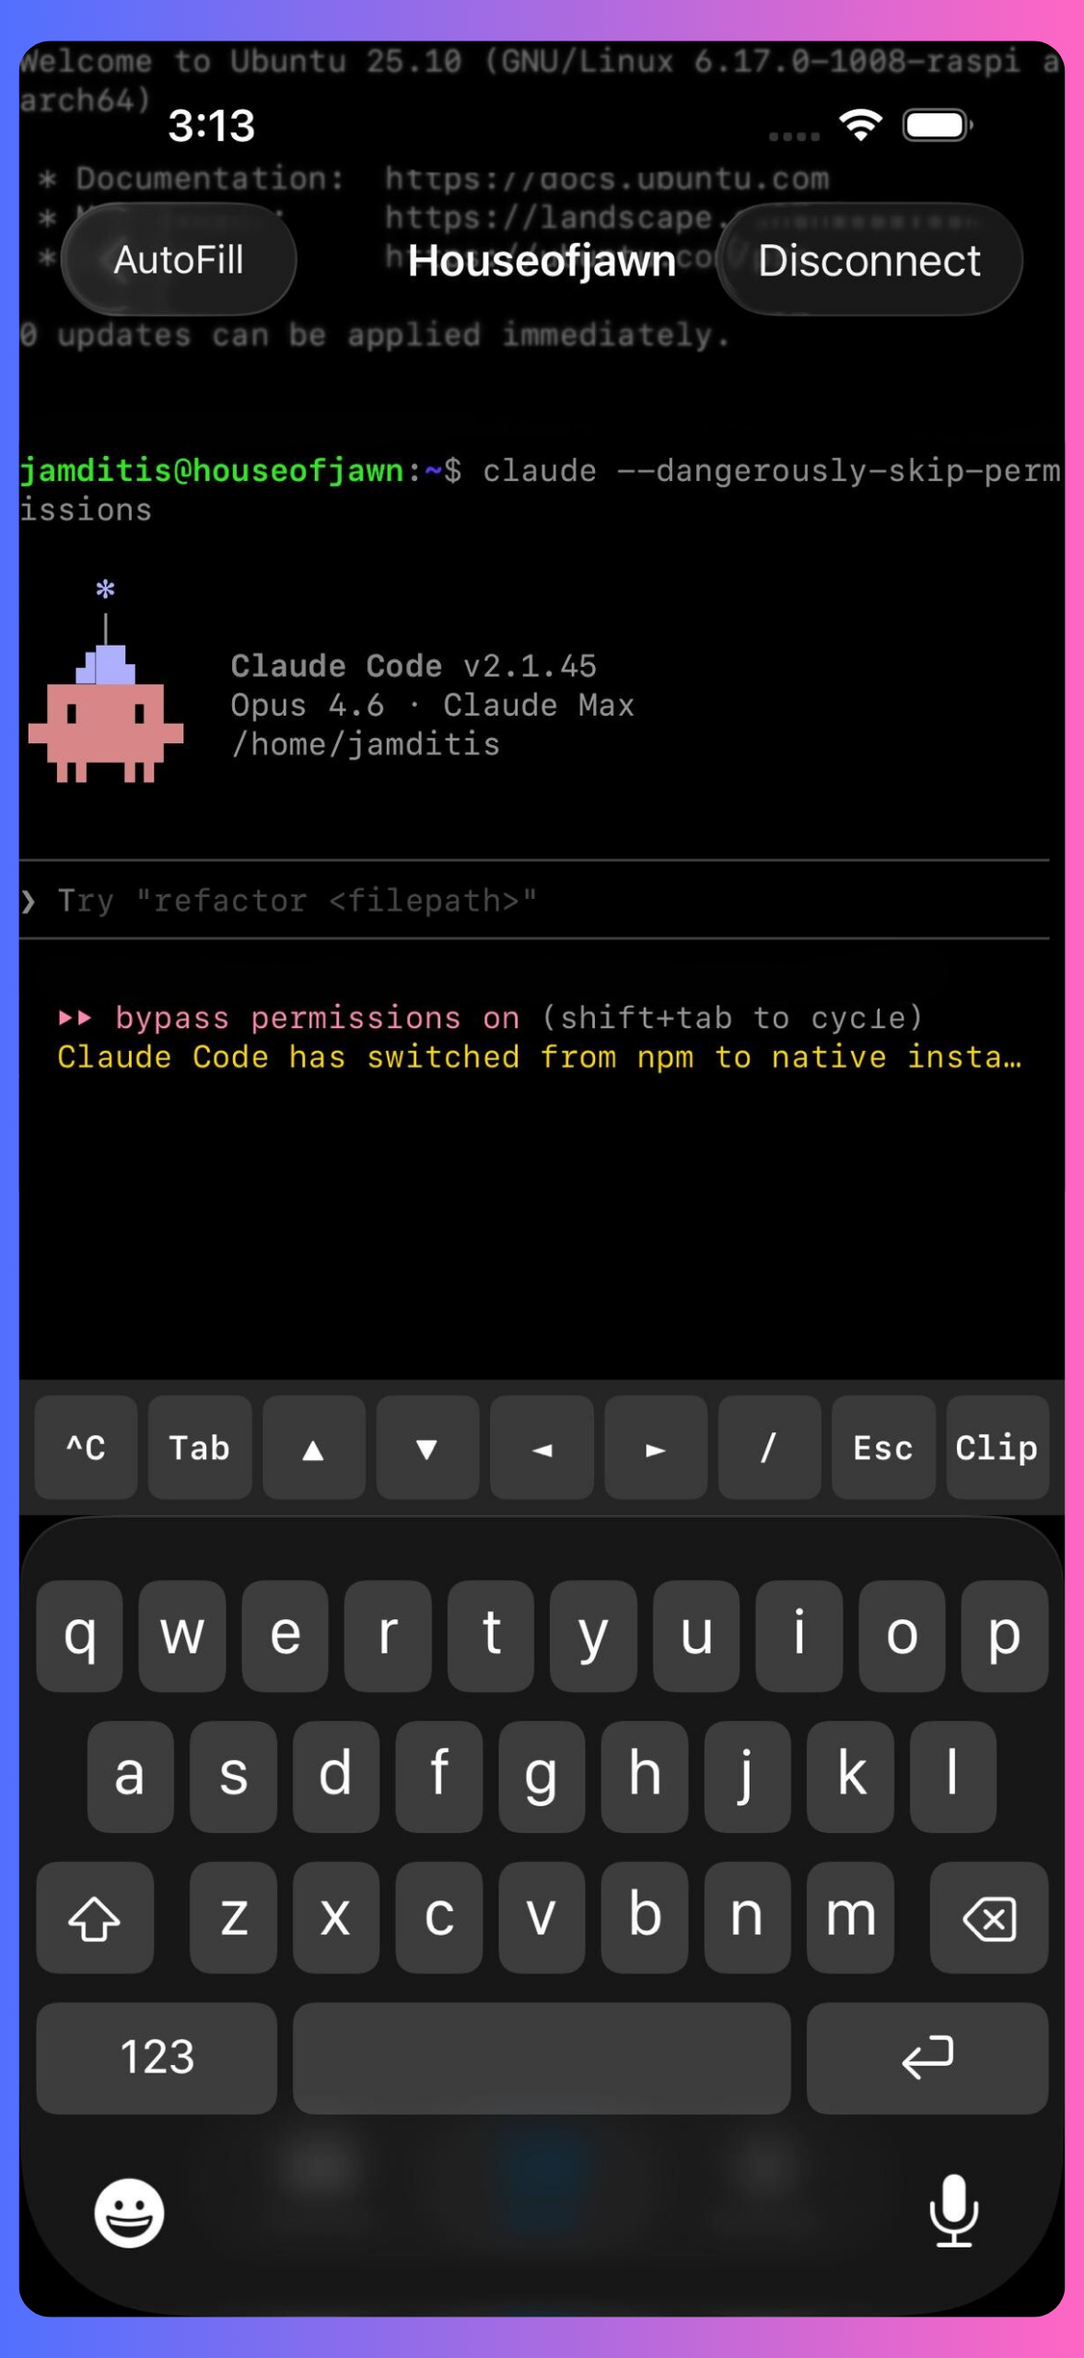
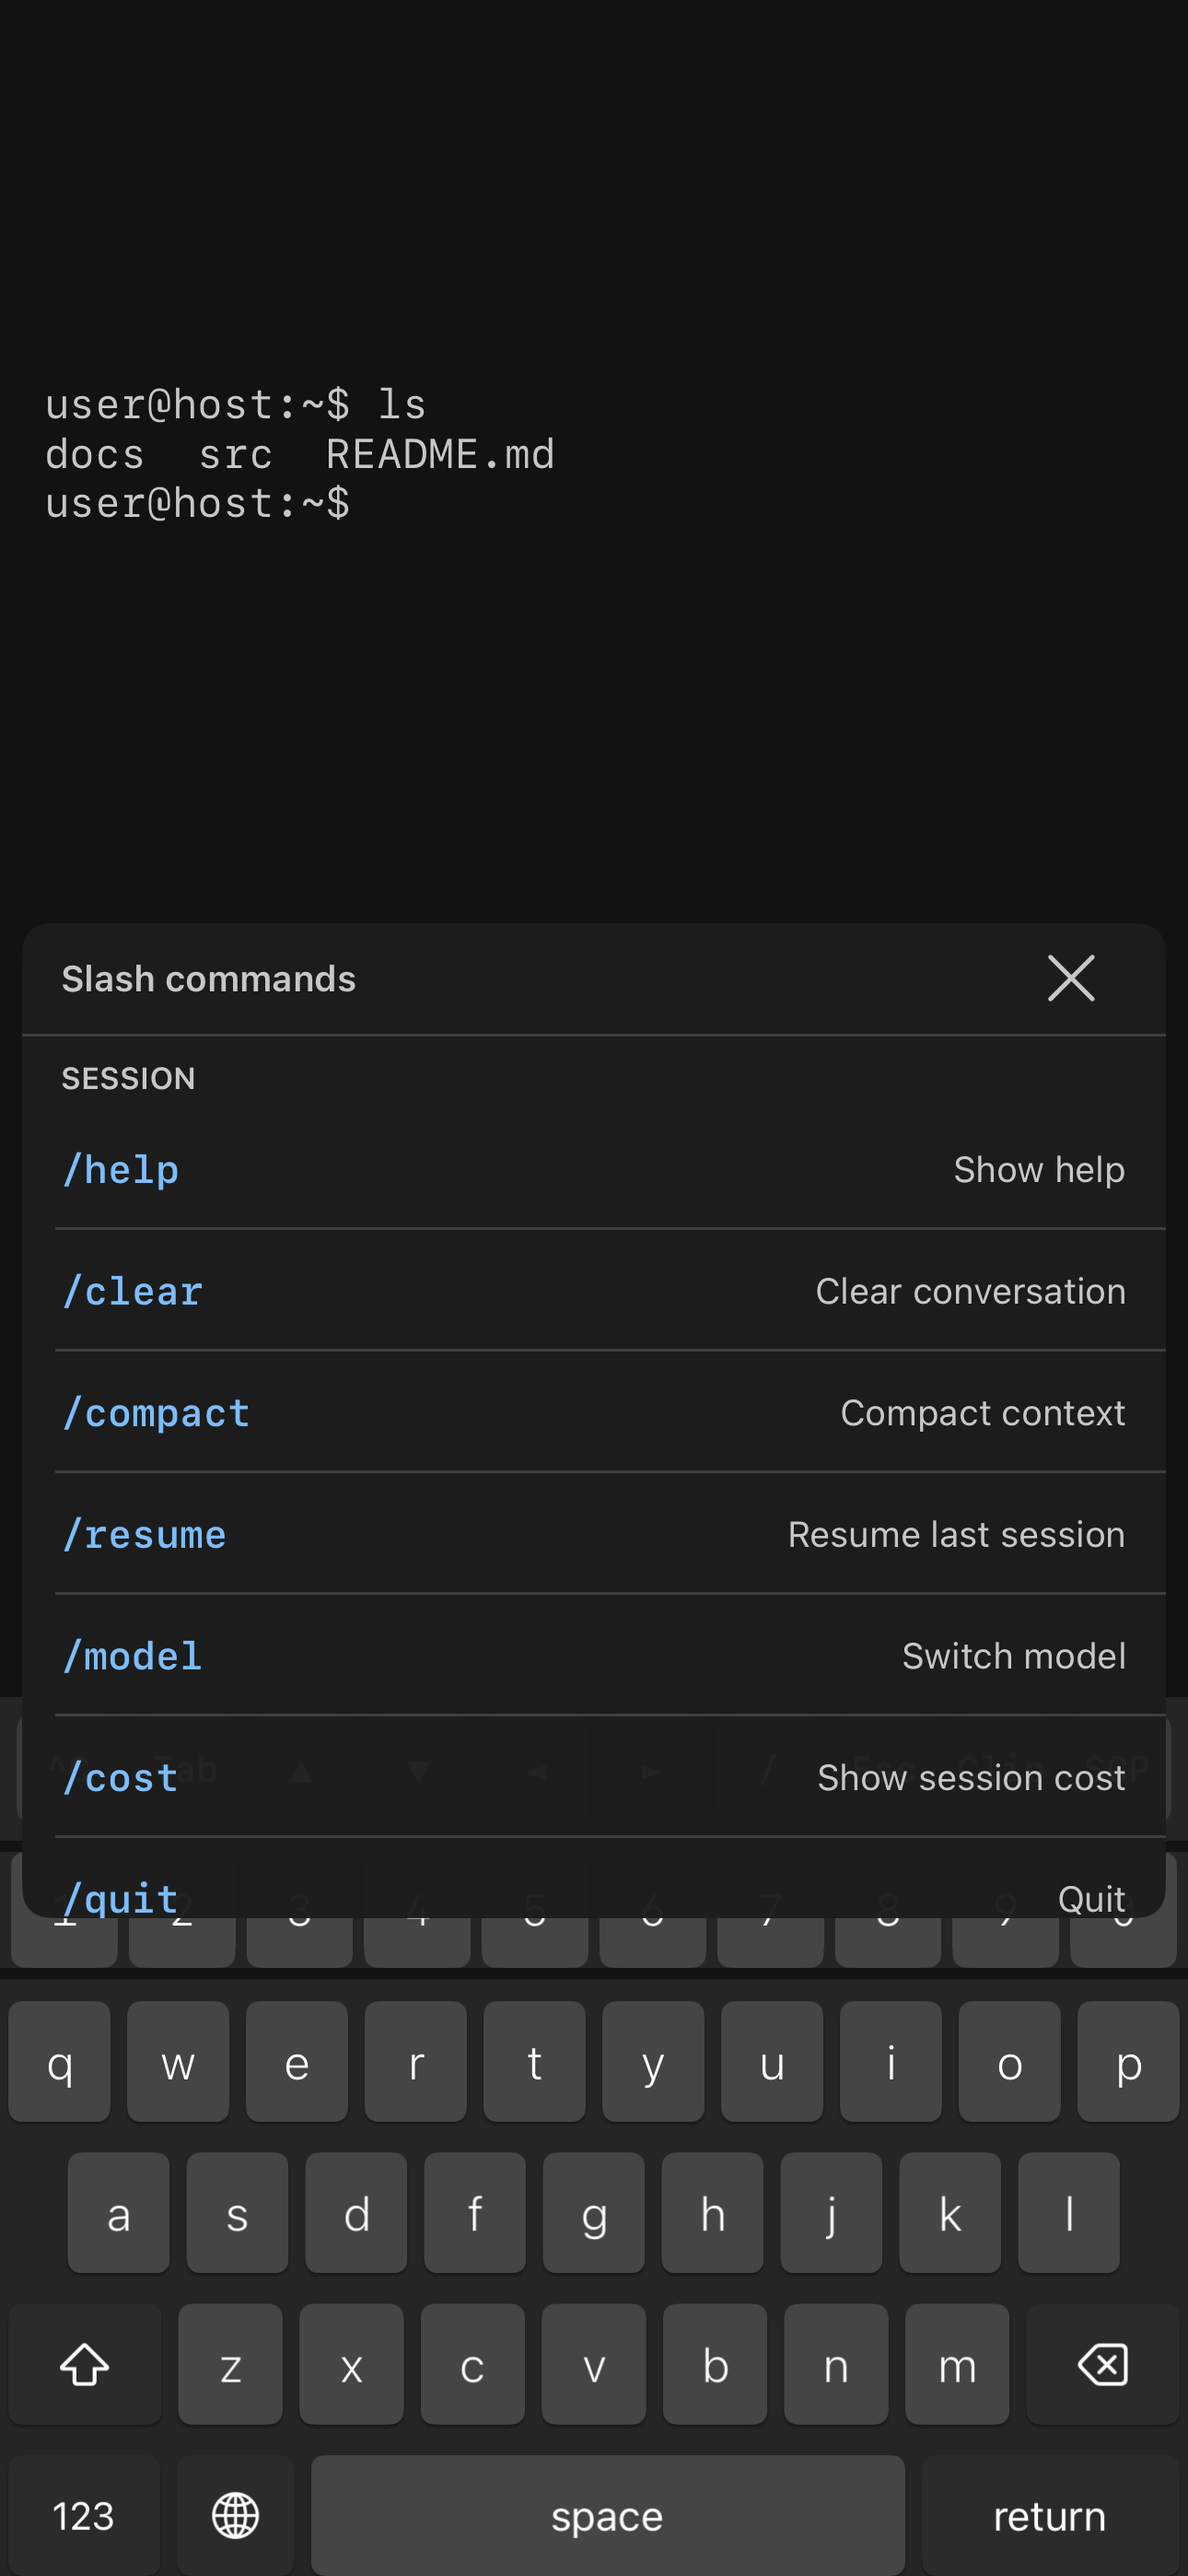
Replace the branded slash-commands screenshot and fix Release signing. (#95)
The store listing still shipped ios-claude-code.png. Render the real
slash panel over a generic prompt at 1290x2796. Archive uses manual
signing so it matches the App Store profiles.

diff --git a/ios/Tests/SlashScreenshotRenderTests.swift b/ios/Tests/SlashScreenshotRenderTests.swift
@@ -1,0 +1,93 @@
+import UIKit
+import XCTest
+@testable import KeyJawnKit
+
+/// Renders the real extra row, number row, QWERTY, and slash panel onto a
+/// 1290×2796 image with a generic prompt behind it. No third-party tool chrome.
+///
+/// Set `SLASH_SCREENSHOT_PATH` to write the PNG. The test always renders and
+/// checks the pixel size so a missing write path still exercises the layout.
+@MainActor
+final class SlashScreenshotRenderTests: XCTestCase {
+
+    func testRendersUnbrandedStoreSizedSlashScreenshot() throws {
+        let image = try Self.render()
+        XCTAssertEqual(image.size.width * image.scale, 1290, accuracy: 0.5)
+        XCTAssertEqual(image.size.height * image.scale, 2796, accuracy: 0.5)
+
+        let data = try XCTUnwrap(image.pngData())
+        XCTAssertGreaterThan(data.count, 50_000)
+
+        // Local runs refresh the store/website asset. CI leaves the committed PNG alone.
+        if ProcessInfo.processInfo.environment["CI"] == nil {
+            let repo = URL(fileURLWithPath: #filePath)
+                .deletingLastPathComponent()
+                .deletingLastPathComponent()
+                .deletingLastPathComponent()
+            let out = repo.appendingPathComponent(
+                "website/public/screenshots/ios-screenshots/ios-slash-commands.png"
+            )
+            try data.write(to: out)
+        }
+    }
+
+    @MainActor
+    static func render() throws -> UIImage {
+        let pointSize = CGSize(width: 430, height: 932)
+        let theme = KeyboardTheme.dark
+
+        let window = UIWindow(frame: CGRect(origin: .zero, size: pointSize))
+        let root = UIView(frame: CGRect(origin: .zero, size: pointSize))
+        root.backgroundColor = UIColor(red: 0.07, green: 0.07, blue: 0.08, alpha: 1)
+        window.addSubview(root)
+        window.makeKeyAndVisible()
+
+        let prompt = UILabel()
+        prompt.numberOfLines = 0
+        prompt.font = .monospacedSystemFont(ofSize: 15, weight: .regular)
+        prompt.textColor = UIColor(white: 0.78, alpha: 1)
+        prompt.text = """
+        user@host:~$ ls
+        docs  src  README.md
+        user@host:~$
+        """
+        prompt.frame = CGRect(x: 16, y: 64, width: pointSize.width - 32, height: 200)
+        root.addSubview(prompt)
+
+        let extra = ExtraRowView()
+        extra.applyTheme(theme)
+        extra.frame = CGRect(x: 0, y: pointSize.height - 52 - 42 - 4 - 220, width: pointSize.width, height: 52)
+        root.addSubview(extra)
+
+        let numbers = NumberRowView()
+        numbers.applyTheme(theme)
+        numbers.frame = CGRect(x: 0, y: extra.frame.maxY + 4, width: pointSize.width, height: 42)
+        root.addSubview(numbers)
+
+        let qwerty = QwertyKeyboardView()
+        qwerty.applyTheme(theme)
+        qwerty.frame = CGRect(x: 0, y: numbers.frame.maxY + 4, width: pointSize.width, height: 220)
+        root.addSubview(qwerty)
+
+        let panel = SlashCommandPanel(theme: theme)
+        // Cover the QWERTY so the panel — the 3.2.2 artifact — is the subject.
+        panel.frame = CGRect(x: 8, y: extra.frame.minY - 280, width: pointSize.width - 16, height: 360)
+        panel.layer.cornerRadius = 10
+        panel.clipsToBounds = true
+        root.addSubview(panel)
+
+        root.layoutIfNeeded()
+        extra.layoutIfNeeded()
+        numbers.layoutIfNeeded()
+        qwerty.layoutIfNeeded()
+        panel.layoutIfNeeded()
+
+        let format = UIGraphicsImageRendererFormat()
+        format.scale = 3
+        format.opaque = true
+        let renderer = UIGraphicsImageRenderer(size: pointSize, format: format)
+        return renderer.image { _ in
+            root.drawHierarchy(in: root.bounds, afterScreenUpdates: true)
+        }
+    }
+}

diff --git a/SOCIAL.md b/SOCIAL.md
@@ -46,7 +46,7 @@ The target user: anyone running Claude Code, Gemini CLI, Codex CLI, OpenCode, or
 - Standalone app with built-in SSH terminal (SwiftTerm + SwiftNIO SSH via Citadel)
 - Companion keyboard extension adds terminal keys to any app
 - Currently in **TestFlight beta**: https://testflight.apple.com/join/8vMqguKK (50 spots)
-- **App Store review in progress** — submitted, currently under review
+- **App Store:** v1.0 was rejected (3.2.2). Listing copy and slash-command screenshot were unbranded; build 8 uploaded. Not resubmitted until that build is processed.
 
 ---
 
@@ -55,7 +55,7 @@ The target user: anyone running Claude Code, Gemini CLI, Codex CLI, OpenCode, or
 <!-- Update this section whenever a new version ships -->
 
 **Android:** v1.3.0
-**iOS:** v1.0 (build in review)
+**iOS:** v1.0 (build 8 uploaded; previous 1.0 listing rejected)
 
 ### Recent changes
 <!-- Add entries here as things ship. Newest first. -->
@@ -63,7 +63,7 @@ The target user: anyone running Claude Code, Gemini CLI, Codex CLI, OpenCode, or
 - Android typing and voice overhaul: keys fire on press instead of release (with rollover), backspace escalates to word deletion and supports swipe-to-delete, auto-capitalize at sentence starts, haptics on the number row.
 - Android voice input is now continuous — dictate a whole prompt in natural sentences instead of one tap per phrase. Live transcription appears in the field as you speak, hold the mic for push-to-talk, and cancel discards instead of committing. Optional spoken punctuation ("new line", "open paren").
 - Google Play internal testing set up (7 testers). Production launch pending.
-- iOS App Store submission in review.
+- iOS App Store 1.0 rejected for 3.2.2; listing screenshot and description unbranded, build 8 uploaded.
 - Stripe + R2 purchase/delivery pipeline live.
 
 ---
